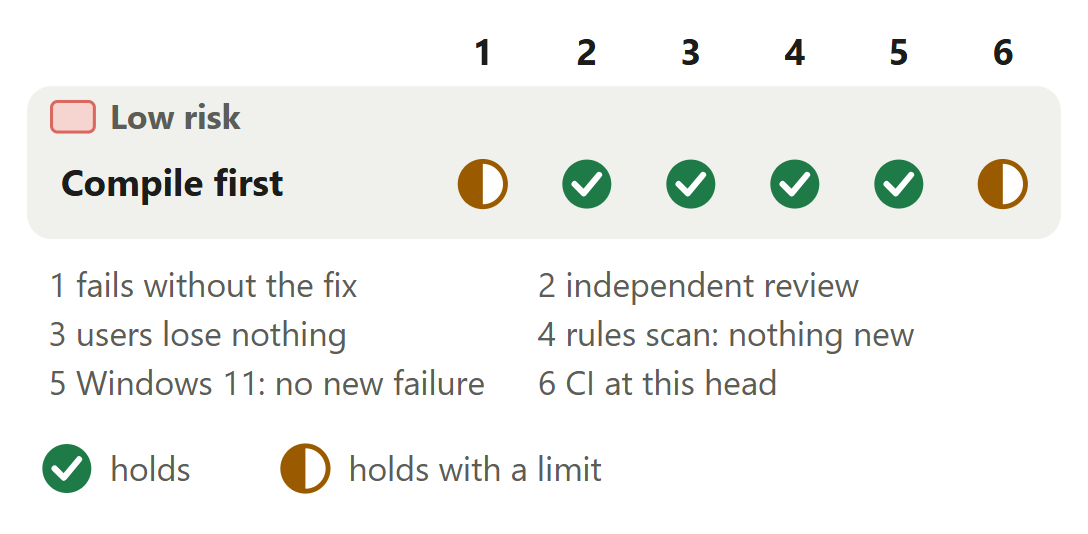
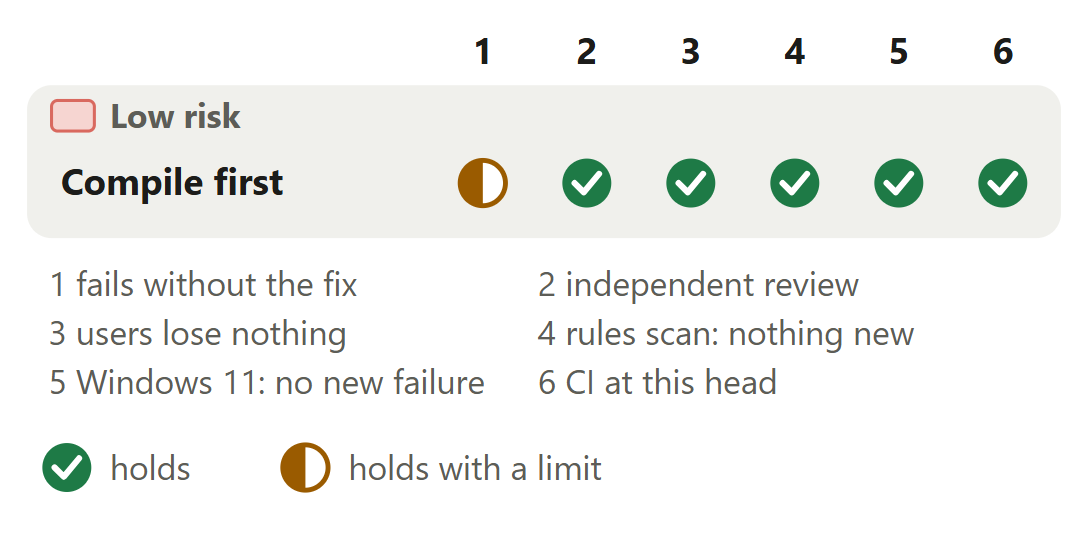
Decision report for #636 (JeanFrancoisGagne/rules-test-case-timeout)
rules-test-case-timeout/ holds what the pull request's callout links: README.md, the report in GitHub Markdown; report.html, the self-standing page; and 1 image(s).

diff --git a/rules-test-case-timeout/report.html b/rules-test-case-timeout/report.html
@@ -317,11 +317,11 @@ td .src { display: block; font-size: 13px; color: var(--muted); margin-top: 3px;
   <div class="q"><div class="ql">1. The one question</div>
   <p>Does the rule-draft case still check everything it checked, now that the packs&#x27; one-time compile runs before it?</p>
   </div>
-  <p class="rec"><b>We recommend:</b> approve it once #634 is on main and CI is green: one test file, no product code, and every case keeps its commands, assertions and time limit.</p>
+  <p class="rec"><b>We recommend:</b> approve it: one test file, no product code, and every case keeps its commands, assertions and time limit.</p>
   <div class="big">
-    <div><b class="w">6 lines</b><span>in 1 file. 0 ship, 6 run in every test run, 0 are tests and text.</span></div><div><b class="w">Fast lane</b><span>The automated reviewer can approve.</span></div><div><b class="w">Waits on #634</b><span><code>Dependency audit</code> fails in CI until it merges.</span></div><div><b class="w">3 not verified</b><span><a href="#gaps">Part 8</a> lists each.</span></div>
+    <div><b class="w">6 lines</b><span>in 1 file. 0 ship, 6 run in every test run, 0 are tests and text.</span></div><div><b class="w">Fast lane</b><span>The automated reviewer can approve.</span></div><div><b class="w">Waits on nothing</b><span>The dependency fix merged as #639. CI is green.</span></div><div><b class="w">2 not verified</b><span><a href="#gaps">Part 8</a> lists each.</span></div>
   </div>
-  <p class="state">Read from <a href="https://github.com/neralabs/rerail/pull/636">GitHub</a> on 13 November 2026, at head b53486de3.</p>
+  <p class="state">Read from <a href="https://github.com/neralabs/rerail/pull/636">GitHub</a> on 13 November 2026, at head 01a2115b3.</p>
 </header>
 <section id="intent"><h2>2. Intent, and the gap</h2>
 <figure class="fg flat"><table class="tc it"><colgroup><col style="width:15%"><col style="width:25%"><col style="width:29%"><col style="width:31%"></colgroup><thead><tr><th>Change</th><th>Intended</th><th>Found</th><th>Now</th></tr></thead><tbody><tr><td class="k"><b>One rule-draft case</b></td><td class="in" data-l="Intended">The case checks one thing: <code>rules test</code> &quot;counts only where rules add would have the rule run&quot;. <span class="tagx">a test&#x27;s name</span></td><td class="fo" data-l="Found">It timed out at vitest&#x27;s 5 s limit in 3 of the 71 jobs that ran it. Its limit also paid the packs&#x27; one-time compile. <span class="tagx">CI job logs</span></td><td class="now" data-l="Now"><b>Closes the gap.</b> The file compiles the installed packs once, in <code>beforeAll</code>. Each case then times only its own commands.</td></tr></tbody></table>
@@ -332,9 +332,9 @@ td .src { display: block; font-size: 13px; color: var(--muted); margin-top: 3px;
 <ol class="steps"><li class="first"><div><span class="rf">Read first</span><b><code>rule-draft.test.ts</code>: <code>beforeAll</code>, <code>loadRuleCatalog</code></b><span class="min">2 min</span><span class="x">Is this the same compile the case&#x27;s first <code>rules add</code> ran at main: same home, same installed packs?</span></div></li></ol>
 <div class="skim"><i></i><div><span class="rf">Then skim</span><b>Tests and text</b><span class="min">1 min</span><span class="x">The only other changed line is the <code>vitest</code> import. No case, assertion or time limit changed.</span></div></div>
 </section><section id="grid"><h2>4. Risk against verification</h2>
-<figure class="fg"><svg viewBox="0 0 340 159" role="img" aria-label="The changes by risk, high on top, against six checks. Compile first, low risk: fails without the fix holds with a limit. CI at this head holds with a limit for every change." class="dg grid"><text x="150" y="13" text-anchor="middle" class="t b">1</text><text x="184" y="13" text-anchor="middle" class="t b">2</text><text x="218" y="13" text-anchor="middle" class="t b">3</text><text x="252" y="13" text-anchor="middle" class="t b">4</text><text x="286" y="13" text-anchor="middle" class="t b">5</text><text x="320" y="13" text-anchor="middle" class="t b">6</text><rect x="1" y="20" width="338" height="50" rx="8" class="bx zone"/><rect x="9" y="25" width="14" height="10" rx="2" class="rk low"/><text x="28" y="34" class="t s b">Low risk</text><text x="12" y="56" class="t b">Compile first</text><g><title>Compile first, fails without the fix: At main the case timed out in 50 of 67 runs, here in 0 of 201: the case alone, main and this change taking turns, eight runs at a time on four CPUs of a 32-core Linux machine. With three busy loops added it timed out in 67 of 67 runs at main and in 5 of 201 here.</title><circle cx="150" cy="52" r="7.4" class="ml"/><path d="M150 44.6A7.4 7.4 0 0 0 150 59.4Z" class="mlf"/></g><g><title>Compile first, independent review: An independent check proved the cause and reran the comparison: 1,192 runs, and no `beforeAll` timed out. It found no defect in the change.</title><circle cx="184" cy="52" r="8" class="mh"/><path d="M180 52l3 3l5 -6" class="mt"/></g><g><title>Compile first, users lose nothing: No product code changes. The diff adds one hook and no line inside a case, so every case keeps its commands, assertions and time limit. The whole file passed in 64 of 64 idle runs at main and in 64 of 64 here.</title><circle cx="218" cy="52" r="8" class="mh"/><path d="M214 52l3 3l5 -6" class="mt"/></g><g><title>Compile first, rules scan: nothing new: No finding in the touched file, new or old: the scan the automated reviewer runs, with rules from main, against the merge base.</title><circle cx="252" cy="52" r="8" class="mh"/><path d="M248 52l3 3l5 -6" class="mt"/></g><g><title>Compile first, Windows 11: no new failure: `rule-draft.test.ts` passed whole on Windows 11 with Node 24.21.0: 45 of 45 cases.</title><circle cx="286" cy="52" r="8" class="mh"/><path d="M282 52l3 3l5 -6" class="mt"/></g><g><title>Compile first, CI at this head: 9 of 19 jobs pass, both unit test jobs among them, and 8 are skipped. `Dependency audit` fails until #634 merges, so `CI result`, the job that reports the others, fails too. This pull request changes no dependency.</title><circle cx="320" cy="52" r="7.4" class="ml"/><path d="M320 44.6A7.4 7.4 0 0 0 320 59.4Z" class="mlf"/></g><text x="8" y="89" class="t s">1  fails without the fix</text><text x="168" y="89" class="t s">2  independent review</text><text x="8" y="105" class="t s">3  users lose nothing</text><text x="168" y="105" class="t s">4  rules scan: nothing new</text><text x="8" y="121" class="t s">5  Windows 11: no new failure</text><text x="168" y="121" class="t s">6  CI at this head</text><g><title>holds</title><circle cx="14" cy="145" r="8" class="mh"/><path d="M10 145l3 3l5 -6" class="mt"/></g><text x="28" y="149" class="t s">holds</text><g><title>holds with a limit</title><circle cx="92" cy="145" r="7.4" class="ml"/><path d="M92 137.6A7.4 7.4 0 0 0 92 152.4Z" class="mlf"/></g><text x="106" y="149" class="t s">holds with a limit</text></svg>
-<figcaption>Two half marks. Under three busy loops the case still timed out in 5 of 201 runs. CI waits on #634.</figcaption></figure>
-<details class="ev"><summary>Each half mark's limit</summary><div class="table-wrap"><table class="tc tight"><colgroup><col style="width:18%"><col style="width:22%"><col style="width:60%"></colgroup><thead><tr><th>Change</th><th>Check</th><th>It holds with this limit</th></tr></thead><tbody><tr><td class="k">Compile first</td><td data-l="Check">fails without the fix</td><td data-l="It holds with this limit">At main the case timed out in 50 of 67 runs, here in 0 of 201: the case alone, main and this change taking turns, eight runs at a time on four CPUs of a 32-core Linux machine. With three busy loops added it timed out in 67 of 67 runs at main and in 5 of 201 here.</td></tr><tr><td class="k">Compile first</td><td data-l="Check">CI at this head</td><td data-l="It holds with this limit">9 of 19 jobs pass, both unit test jobs among them, and 8 are skipped. <code>Dependency audit</code> fails until #634 merges, so <code>CI result</code>, the job that reports the others, fails too. This pull request changes no dependency.</td></tr></tbody></table></div></details>
+<figure class="fg"><svg viewBox="0 0 340 159" role="img" aria-label="The changes by risk, high on top, against six checks. Compile first, low risk: fails without the fix holds with a limit. CI at this head holds for every change." class="dg grid"><text x="150" y="13" text-anchor="middle" class="t b">1</text><text x="184" y="13" text-anchor="middle" class="t b">2</text><text x="218" y="13" text-anchor="middle" class="t b">3</text><text x="252" y="13" text-anchor="middle" class="t b">4</text><text x="286" y="13" text-anchor="middle" class="t b">5</text><text x="320" y="13" text-anchor="middle" class="t b">6</text><rect x="1" y="20" width="338" height="50" rx="8" class="bx zone"/><rect x="9" y="25" width="14" height="10" rx="2" class="rk low"/><text x="28" y="34" class="t s b">Low risk</text><text x="12" y="56" class="t b">Compile first</text><g><title>Compile first, fails without the fix: At main the case timed out in 50 of 67 runs, here in 0 of 201: the case alone, main and this change taking turns, eight runs at a time on four CPUs of a 32-core Linux machine. With three busy loops added it timed out in 67 of 67 runs at main and in 5 of 201 here.</title><circle cx="150" cy="52" r="7.4" class="ml"/><path d="M150 44.6A7.4 7.4 0 0 0 150 59.4Z" class="mlf"/></g><g><title>Compile first, independent review: An independent check proved the cause and reran the comparison: 1,192 runs, and no `beforeAll` timed out. It found no defect in the change.</title><circle cx="184" cy="52" r="8" class="mh"/><path d="M180 52l3 3l5 -6" class="mt"/></g><g><title>Compile first, users lose nothing: No product code changes. The diff adds one hook and no line inside a case, so every case keeps its commands, assertions and time limit. The whole file passed in 64 of 64 idle runs at main and in 64 of 64 here.</title><circle cx="218" cy="52" r="8" class="mh"/><path d="M214 52l3 3l5 -6" class="mt"/></g><g><title>Compile first, rules scan: nothing new: No finding in the touched file, new or old: the scan the automated reviewer runs, with rules from main, against the merge base.</title><circle cx="252" cy="52" r="8" class="mh"/><path d="M248 52l3 3l5 -6" class="mt"/></g><g><title>Compile first, Windows 11: no new failure: `rule-draft.test.ts` passed whole on Windows 11 with Node 24.21.0: 45 of 45 cases.</title><circle cx="286" cy="52" r="8" class="mh"/><path d="M282 52l3 3l5 -6" class="mt"/></g><g><title>Compile first, CI at this head: At 01a2115b3, 12 of 20 checks pass and 8 are skipped. None fails. `Unit tests (1/2)`, `Unit tests (2/2)`, `Dependency audit` and `CI result`, the job that reports the others, pass. In the first attempt `Unit tests (2/2)` failed on one test of main that this pull request does not touch. We reran the failed job once and it passed.</title><circle cx="320" cy="52" r="8" class="mh"/><path d="M316 52l3 3l5 -6" class="mt"/></g><text x="8" y="89" class="t s">1  fails without the fix</text><text x="168" y="89" class="t s">2  independent review</text><text x="8" y="105" class="t s">3  users lose nothing</text><text x="168" y="105" class="t s">4  rules scan: nothing new</text><text x="8" y="121" class="t s">5  Windows 11: no new failure</text><text x="168" y="121" class="t s">6  CI at this head</text><g><title>holds</title><circle cx="14" cy="145" r="8" class="mh"/><path d="M10 145l3 3l5 -6" class="mt"/></g><text x="28" y="149" class="t s">holds</text><g><title>holds with a limit</title><circle cx="92" cy="145" r="7.4" class="ml"/><path d="M92 137.6A7.4 7.4 0 0 0 92 152.4Z" class="mlf"/></g><text x="106" y="149" class="t s">holds with a limit</text></svg>
+<figcaption>One half mark. Under three busy loops the case still timed out in 5 of 201 runs. CI is green at 01a2115b3.</figcaption></figure>
+<details class="ev"><summary>Each half mark's limit</summary><div class="table-wrap"><table class="tc tight"><colgroup><col style="width:18%"><col style="width:22%"><col style="width:60%"></colgroup><thead><tr><th>Change</th><th>Check</th><th>It holds with this limit</th></tr></thead><tbody><tr><td class="k">Compile first</td><td data-l="Check">fails without the fix</td><td data-l="It holds with this limit">At main the case timed out in 50 of 67 runs, here in 0 of 201: the case alone, main and this change taking turns, eight runs at a time on four CPUs of a 32-core Linux machine. With three busy loops added it timed out in 67 of 67 runs at main and in 5 of 201 here.</td></tr></tbody></table></div></details>
 </section><section id="changes"><h2>5. The changes</h2>
 <ul class="lines"><li><span class="chip low"><i></i>Low risk</span> <b>Compile before the cases</b>: Under load, the case timed out in 50 of 67 runs at main and 0 of 201 here.</li></ul>
 </section><section id="decisions"><h2>6. The decisions</h2>
@@ -343,13 +343,12 @@ td .src { display: block; font-size: 13px; color: var(--muted); margin-top: 3px;
 <p><b>Would change our mind:</b> CI runners so slow that the case&#x27;s own commands outlast its 5 s limit. Splitting the case would then win.</p>
 <details class="ev"><summary>Options and evidence</summary><div class="table-wrap"><table class="tc tight"><colgroup><col style="width:28%"><col style="width:22%"><col style="width:22%"><col style="width:28%"></colgroup><thead><tr><th>Option</th><th>What a user gets</th><th>Cost</th><th>What it breaks</th></tr></thead><tbody><tr><td class="k">Compile once in <code>beforeAll</code> <span class='tag new'>chosen</span></td><td data-l="What a user gets">Each case times its own commands. The compile counts against vitest&#x27;s 10 s hook limit.</td><td data-l="Cost">Five added lines, one removed.</td><td data-l="What it breaks">A compile slower than the hook limit fails the file, where at main it failed one case.</td></tr><tr><td class="k">A longer limit for this case</td><td data-l="What a user gets">Fewer timeouts.</td><td data-l="Cost">One line.</td><td data-l="What it breaks">The one-time compile stays inside one case. Its limit tracks the compile&#x27;s cost, and the next case to run <code>rules add</code> first inherits it.</td></tr><tr><td class="k">Split the case in two</td><td data-l="What a user gets">Shorter cases.</td><td data-l="Cost">Shared state between the two: the case reads as one sequence, before and after <code>rules add</code>.</td><td data-l="What it breaks">The part that runs <code>rules add</code> first still pays the compile.</td></tr></tbody></table></div><p><b>Evidence.</b> The interleaved runs under &quot;How you tested it&quot;: main and this change took turns under the same load. Timed at main under twelve busy loops, 32 runs, the compile took 3.7 to 7.1 s, inside the hook limit. The description&#x27;s &quot;Decisions&quot; has the same options and a drawing of the case before and after.</p></details></div>
 </section><section id="fits"><h2>7. How it fits</h2>
-<p>Nothing has to merge before you review. A green CI needs #634 on main.</p>
-<p>#503 edits the same test file in other lines. A trial merge with its head is clean.</p>
-<details class="ev"><summary>Related pull requests</summary><p>#635 fixes the other test that fails main&#x27;s CI at random. It shares no file with this one, and either lands alone, in either order. No waiting change listed on <a href="https://github.com/neralabs/rerail/issues/632">tracking issue #632</a> edits this file. The description, under &quot;How it fits&quot;, has one row per related pull request.</p></details>
+<p>Nothing has to merge before you review. The dependency fix is on main (it merged as #639), and this branch took main at 01a2115b3.</p>
+<p>#503 and #640 edit the same test file in other lines. A merge with each is clean.</p>
+<details class="ev"><summary>Related pull requests</summary><p>#635 fixes the other test that fails main&#x27;s CI at random. It shares no file with this one, and either lands alone, in either order. The team&#x27;s #640 edits the same test file as this one: at 5ca7f9194 it splits this case in two and gives each part a 15 s limit. A three-way merge of the file with that head is clean. No pull request of ours to follow edits this file. The description, under &quot;How it fits&quot;, has one row per related pull request.</p></details>
 </section><section id="gaps"><h2>8. What is not covered</h2>
 <ul class="lines">
-<li><b>CI is not green</b> until #634 merges.</li>
-<li><b>On CI&#x27;s own runners</b> the unit test jobs ran once at this head, and passed. One run does not show that a rare timeout is gone.</li>
+<li><b>On CI&#x27;s own runners</b> the job that runs the case ran twice at this head, and the case passed both times. Two runs do not show that a rare timeout is gone.</li>
 <li><b>macOS</b> never ran.</li>
 </ul>
 <details class="ev"><summary>Three limits that stay</summary>
@@ -365,14 +364,14 @@ td .src { display: block; font-size: 13px; color: var(--muted); margin-top: 3px;
 </ol>
 </section><section id="evidence"><h2>10. Evidence</h2>
 <p>The description on GitHub is the record. &quot;How you tested it&quot; holds the interleaved runs, the whole-file runs and the CI jobs that timed out. &quot;Where it lands&quot; holds the cause, with each step&#x27;s time.</p>
-<details class="ev"><summary>Runs at this head</summary><div class="table-wrap"><table class="tc tight"><colgroup><col style="width:16%"><col style="width:40%"><col style="width:44%"></colgroup><thead><tr><th>Where</th><th>What ran</th><th>Result</th></tr></thead><tbody><tr><td class="k">CI on GitHub</td><td data-l="What ran">The pull request&#x27;s one run, read on 13 November 2026</td><td data-l="Result">9 jobs passed, both unit test jobs among them. 8 skipped. 2 failed: <code>Dependency audit</code>, and <code>CI result</code>, the job that reports the others.</td></tr><tr><td class="k">Linux, 32 cores</td><td data-l="What ran">The case alone, main and this change taking turns, eight runs at a time on four CPUs, while other work kept the machine&#x27;s load at 20 to 50</td><td data-l="Result">Timed out, main against this change. No busy loop: 50 of 67 against 0 of 201. One loop: 64 of 67 against 0 of 201. Three loops: 67 of 67 against 5 of 201.</td></tr><tr><td class="k">Linux, 32 cores</td><td data-l="What ran">The whole file, idle, eight runs at a time</td><td data-l="Result">64 of 64 runs passed at main and 64 of 64 here. The case took 1.9 to 2.7 s at main and 0.9 to 1.2 s here.</td></tr><tr><td class="k">Linux, 32 cores</td><td data-l="What ran">An independent rerun of the comparison</td><td data-l="Result">1,192 runs. No <code>beforeAll</code> timed out.</td></tr><tr><td class="k">Windows 11</td><td data-l="What ran">The whole file, Node 24.21.0</td><td data-l="Result">45 of 45 cases passed.</td></tr><tr><td class="k">Linux</td><td data-l="What ran">The rules scan as the automated reviewer runs it, rules from main, against the merge base</td><td data-l="Result">No finding.</td></tr></tbody></table></div></details>
+<details class="ev"><summary>Runs at this head</summary><div class="table-wrap"><table class="tc tight"><colgroup><col style="width:16%"><col style="width:40%"><col style="width:44%"></colgroup><thead><tr><th>Where</th><th>What ran</th><th>Result</th></tr></thead><tbody><tr><td class="k">CI on GitHub</td><td data-l="What ran">The pull request&#x27;s checks at 01a2115b3, read on 13 November 2026</td><td data-l="Result">12 of 20 checks passed, <code>Unit tests (1/2)</code>, <code>Unit tests (2/2)</code>, <code>Dependency audit</code> and <code>CI result</code> among them. 8 skipped. None failed. In the first attempt <code>Unit tests (2/2)</code> failed on one test of main that this pull request does not touch, in <code>code-rule-bridge.test.ts</code>. We reran the failed job once and it passed. This pull request&#x27;s case passed in both attempts.</td></tr><tr><td class="k">Linux, 32 cores</td><td data-l="What ran">The case alone, main and this change taking turns, eight runs at a time on four CPUs, while other work kept the machine&#x27;s load at 20 to 50</td><td data-l="Result">Timed out, main against this change. No busy loop: 50 of 67 against 0 of 201. One loop: 64 of 67 against 0 of 201. Three loops: 67 of 67 against 5 of 201.</td></tr><tr><td class="k">Linux, 32 cores</td><td data-l="What ran">The whole file, idle, eight runs at a time</td><td data-l="Result">64 of 64 runs passed at main and 64 of 64 here. The case took 1.9 to 2.7 s at main and 0.9 to 1.2 s here.</td></tr><tr><td class="k">Linux, 32 cores</td><td data-l="What ran">An independent rerun of the comparison</td><td data-l="Result">1,192 runs. No <code>beforeAll</code> timed out.</td></tr><tr><td class="k">Windows 11</td><td data-l="What ran">The whole file, Node 24.21.0</td><td data-l="Result">45 of 45 cases passed.</td></tr><tr><td class="k">Linux</td><td data-l="What ran">The rules scan as the automated reviewer runs it, rules from main, against the merge base</td><td data-l="Result">No finding.</td></tr></tbody></table></div></details>
 <details class="ev"><summary>What this report adds</summary><ul class="facts">
-<li><b>CI ran what the description lists as not run.</b> The description says the whole <code>npm test</code>, <code>npm run check:licenses</code> and <code>reuse lint</code> were not run. In CI&#x27;s run at b53486de3 both unit test jobs passed, and so did the job named &quot;Licences (REUSE and copyleft gate)&quot;. The description&#x27;s checklist can now say so.</li>
-<li><b>What a slow compile fails now, and the line count.</b> A read of the diff: <code>beforeAll</code> sits at the file&#x27;s top level, so a compile past vitest&#x27;s 10 s hook limit fails the file, where at main it failed one case. The description&#x27;s options table says the chosen option breaks nothing and costs 4 lines. The diff adds five lines and removes one.</li>
-<li><b>A product cache would not shorten the case.</b> The description&#x27;s &quot;What would change our mind&quot; says a compiled-catalog cache in the product would win on slower runners. At b53486de3 the case&#x27;s <code>rules add</code> reuses the catalog <code>beforeAll</code> compiled, and <code>rules test</code> never compiles. Only splitting the case shortens it.</li>
+<li><b>CI ran the whole suite and the licence checks.</b> The description&#x27;s own runs cover one test file. In CI&#x27;s run at 01a2115b3 both unit test jobs passed, <code>Unit tests (2/2)</code> on a rerun, and so did the job named &quot;Licences (REUSE and copyleft gate)&quot;. The description&#x27;s checklist says so.</li>
+<li><b>What a slow compile fails now, and the line count.</b> A read of the diff: <code>beforeAll</code> sits at the file&#x27;s top level, so a compile past vitest&#x27;s 10 s hook limit fails the file, where at main it failed one case. The description&#x27;s options table says the same, and gives the cost: five lines added, one removed.</li>
+<li><b>A product cache would not shorten the case.</b> The description&#x27;s &quot;What would change our mind&quot; says a compiled-catalog cache in the product would not shorten the case. At b53486de3 the case&#x27;s <code>rules add</code> reuses the catalog <code>beforeAll</code> compiled, and <code>rules test</code> never compiles. Only splitting the case shortens it.</li>
 <li><b>Our answer to the read-first question.</b> A read of the file at b53486de3: no case installs or removes a pack. One case switches the Rerail home and runs only <code>rules test</code> there, which does not compile. So the file compiles once, in <code>beforeAll</code>, for the home and packs every <code>rules add</code> case uses.</li>
 </ul></details>
-<details class="ev"><summary>Sources</summary><p>The pull request, its diff and its CI on GitHub, read on 13 November 2026. Rerail at main (feef6b5f0) for each quoted intent and for the cause. The description for the runs. <a href="https://github.com/neralabs/rerail/issues/632">Tracking issue #632</a> for the related pull requests.</p></details>
+<details class="ev"><summary>Sources</summary><p>The pull request, its diff and its CI on GitHub, read on 13 November 2026. The head, 01a2115b3, is b53486de3 plus one merge of main; the diff against main is unchanged. Rerail at main (feef6b5f0) for each quoted intent and for the cause. The description for the runs, all but CI&#x27;s made before that merge. The open pull requests on GitHub and their diffs for the related pull requests.</p></details>
 </section>
 <footer><p>A figure we could not source is left out.</p></footer>
 </main>

diff --git a/rules-test-case-timeout/README.md b/rules-test-case-timeout/README.md
@@ -1,16 +1,16 @@
 # Tests: rule-draft compiles the installed packs once, before its cases
 
-For [pull request #636](https://github.com/neralabs/rerail/pull/636), head b53486de3. [report.html](report.html) is the same report as one page: download it and open it.
+For [pull request #636](https://github.com/neralabs/rerail/pull/636), head 01a2115b3. [report.html](report.html) is the same report as one page: download it and open it.
 
 ## 1. The decision
 
 **Does the rule-draft case still check everything it checked, now that the packs' one-time compile runs before it?**
 
-**We recommend:** approve it once #634 is on main and CI is green: one test file, no product code, and every case keeps its commands, assertions and time limit.
+**We recommend:** approve it: one test file, no product code, and every case keeps its commands, assertions and time limit.
 
 | Size | Lane | Waits on | Not verified |
 |---|---|---|---|
-| 6 lines in 1 file: 0 ship, 6 run in every test run, 0 are tests and text | Fast. The automated reviewer can approve. | #634. `Dependency audit` fails in CI until it merges. | 3 |
+| 6 lines in 1 file: 0 ship, 6 run in every test run, 0 are tests and text | Fast. The automated reviewer can approve. | Nothing. The dependency fix merged as #639. CI is green. | 2 |
 
 ## 2. Intent, and the gap
 
@@ -36,16 +36,15 @@ Found on 12 November 2026 (UTC), in the "Unit tests (2/2)" jobs of the repositor
 
 ## 4. Risk against verification
 
-<img src="grid.png" width="544" alt="The changes by risk, high on top, against six checks. Compile first, low risk: fails without the fix holds with a limit. CI at this head holds with a limit for every change.">
+<img src="grid.png" width="544" alt="The changes by risk, high on top, against six checks. Compile first, low risk: fails without the fix holds with a limit. CI at this head holds for every change.">
 
-Two half marks. Under three busy loops the case still timed out in 5 of 201 runs. CI waits on #634.
+One half mark. Under three busy loops the case still timed out in 5 of 201 runs. CI is green at 01a2115b3.
 
 <details><summary>Each half mark's limit</summary>
 
 | Change | Check | It holds with this limit |
 |---|---|---|
 | Compile first | fails without the fix | At main the case timed out in 50 of 67 runs, here in 0 of 201: the case alone, main and this change taking turns, eight runs at a time on four CPUs of a 32-core Linux machine. With three busy loops added it timed out in 67 of 67 runs at main and in 5 of 201 here. |
-| Compile first | CI at this head | 9 of 19 jobs pass, both unit test jobs among them, and 8 are skipped. `Dependency audit` fails until #634 merges, so `CI result`, the job that reports the others, fails too. This pull request changes no dependency. |
 
 </details>
 
@@ -71,17 +70,16 @@ Two half marks. Under three busy loops the case still timed out in 5 of 201 runs
 
 <details><summary><b>7. How it fits</b></summary>
 
-Nothing has to merge before you review. A green CI needs #634 on main. #503 edits the same test file in other lines. A trial merge with its head is clean.
+Nothing has to merge before you review. The dependency fix is on main (it merged as #639), and this branch took main at 01a2115b3. #503 and #640 edit the same test file in other lines. A merge with each is clean.
 
-**Related pull requests.** #635 fixes the other test that fails main's CI at random. It shares no file with this one, and either lands alone, in either order. No waiting change listed on [tracking issue #632](https://github.com/neralabs/rerail/issues/632) edits this file. The description, under "How it fits", has one row per related pull request.
+**Related pull requests.** #635 fixes the other test that fails main's CI at random. It shares no file with this one, and either lands alone, in either order. The team's #640 edits the same test file as this one: at 5ca7f9194 it splits this case in two and gives each part a 15 s limit. A three-way merge of the file with that head is clean. No pull request of ours to follow edits this file. The description, under "How it fits", has one row per related pull request.
 
 </details>
 
-<details><summary><b>8. What is not covered</b>: 3 not verified, 3 limits that stay</summary>
+<details><summary><b>8. What is not covered</b>: 2 not verified, 3 limits that stay</summary>
 
-1. **CI is not green** until #634 merges.
-2. **On CI's own runners** the unit test jobs ran once at this head, and passed. One run does not show that a rare timeout is gone.
-3. **macOS** never ran.
+1. **On CI's own runners** the job that runs the case ran twice at this head, and the case passed both times. Two runs do not show that a rare timeout is gone.
+2. **macOS** never ran.
 
 **Limits that stay**
 
@@ -101,7 +99,7 @@ The description on GitHub is the record. "How you tested it" holds the interleav
 
 | Where | What ran | Result |
 |---|---|---|
-| CI on GitHub | The pull request's one run, read on 13 November 2026 | 9 jobs passed, both unit test jobs among them. 8 skipped. 2 failed: `Dependency audit`, and `CI result`, the job that reports the others. |
+| CI on GitHub | The pull request's checks at 01a2115b3, read on 13 November 2026 | 12 of 20 checks passed, `Unit tests (1/2)`, `Unit tests (2/2)`, `Dependency audit` and `CI result` among them. 8 skipped. None failed. In the first attempt `Unit tests (2/2)` failed on one test of main that this pull request does not touch, in `code-rule-bridge.test.ts`. We reran the failed job once and it passed. This pull request's case passed in both attempts. |
 | Linux, 32 cores | The case alone, main and this change taking turns, eight runs at a time on four CPUs, while other work kept the machine's load at 20 to 50 | Timed out, main against this change. No busy loop: 50 of 67 against 0 of 201. One loop: 64 of 67 against 0 of 201. Three loops: 67 of 67 against 5 of 201. |
 | Linux, 32 cores | The whole file, idle, eight runs at a time | 64 of 64 runs passed at main and 64 of 64 here. The case took 1.9 to 2.7 s at main and 0.9 to 1.2 s here. |
 | Linux, 32 cores | An independent rerun of the comparison | 1,192 runs. No `beforeAll` timed out. |
@@ -110,11 +108,11 @@ The description on GitHub is the record. "How you tested it" holds the interleav
 
 **What this report adds to the description**
 
-- **CI ran what the description lists as not run.** The description says the whole `npm test`, `npm run check:licenses` and `reuse lint` were not run. In CI's run at b53486de3 both unit test jobs passed, and so did the job named "Licences (REUSE and copyleft gate)". The description's checklist can now say so.
-- **What a slow compile fails now, and the line count.** A read of the diff: `beforeAll` sits at the file's top level, so a compile past vitest's 10 s hook limit fails the file, where at main it failed one case. The description's options table says the chosen option breaks nothing and costs 4 lines. The diff adds five lines and removes one.
-- **A product cache would not shorten the case.** The description's "What would change our mind" says a compiled-catalog cache in the product would win on slower runners. At b53486de3 the case's `rules add` reuses the catalog `beforeAll` compiled, and `rules test` never compiles. Only splitting the case shortens it.
+- **CI ran the whole suite and the licence checks.** The description's own runs cover one test file. In CI's run at 01a2115b3 both unit test jobs passed, `Unit tests (2/2)` on a rerun, and so did the job named "Licences (REUSE and copyleft gate)". The description's checklist says so.
+- **What a slow compile fails now, and the line count.** A read of the diff: `beforeAll` sits at the file's top level, so a compile past vitest's 10 s hook limit fails the file, where at main it failed one case. The description's options table says the same, and gives the cost: five lines added, one removed.
+- **A product cache would not shorten the case.** The description's "What would change our mind" says a compiled-catalog cache in the product would not shorten the case. At b53486de3 the case's `rules add` reuses the catalog `beforeAll` compiled, and `rules test` never compiles. Only splitting the case shortens it.
 - **Our answer to the read-first question.** A read of the file at b53486de3: no case installs or removes a pack. One case switches the Rerail home and runs only `rules test` there, which does not compile. So the file compiles once, in `beforeAll`, for the home and packs every `rules add` case uses.
 
-**Sources.** The pull request, its diff and its CI on GitHub, read on 13 November 2026. Rerail at main (feef6b5f0) for each quoted intent and for the cause. The description for the runs. [Tracking issue #632](https://github.com/neralabs/rerail/issues/632) for the related pull requests.
+**Sources.** The pull request, its diff and its CI on GitHub, read on 13 November 2026. The head, 01a2115b3, is b53486de3 plus one merge of main; the diff against main is unchanged. Rerail at main (feef6b5f0) for each quoted intent and for the cause. The description for the runs, all but CI's made before that merge. The open pull requests on GitHub and their diffs for the related pull requests.
 
 </details>
